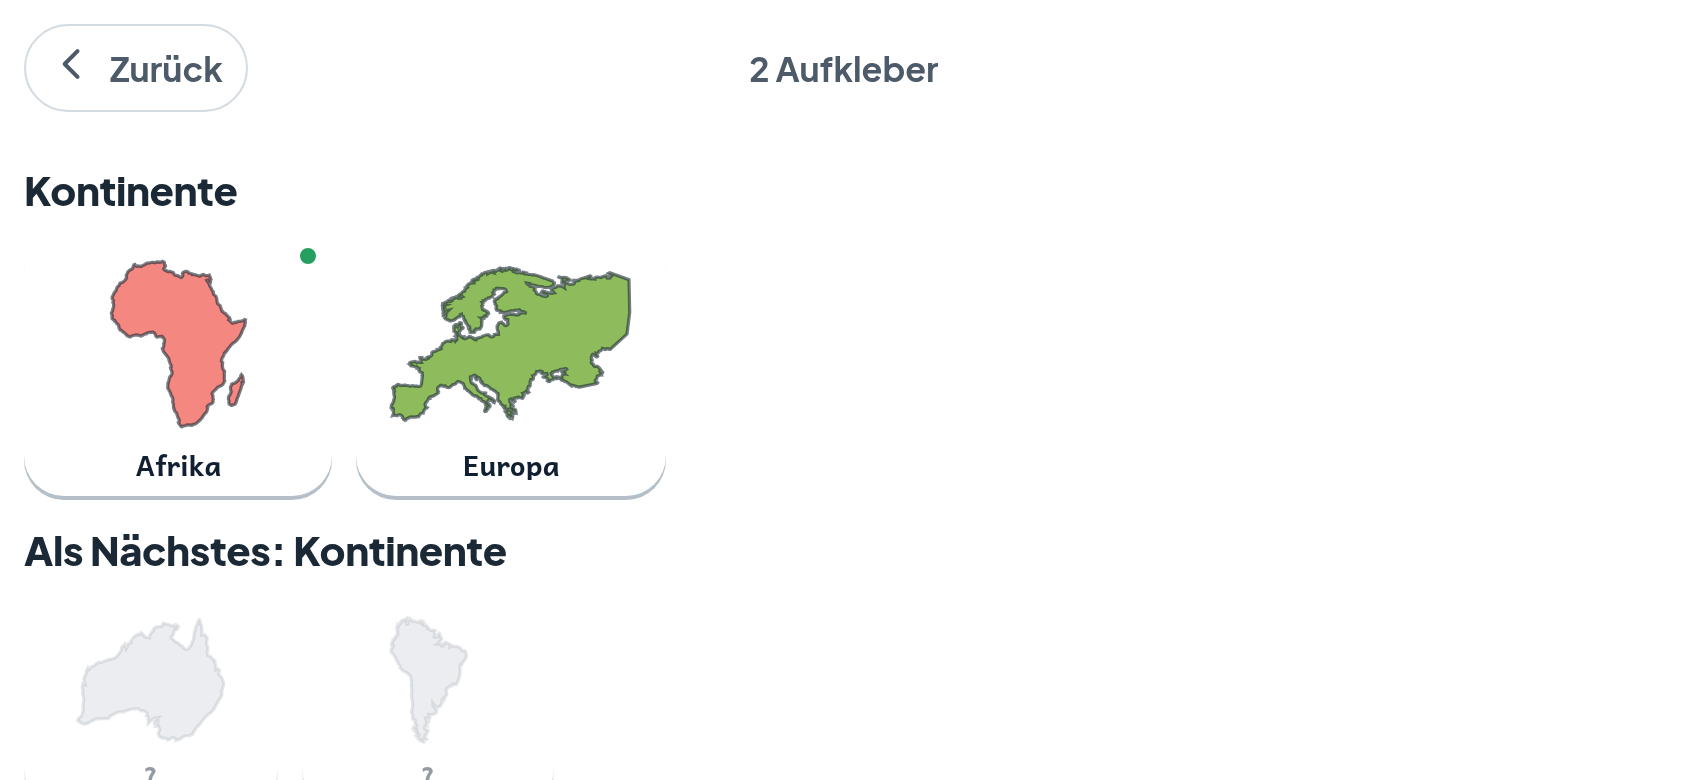
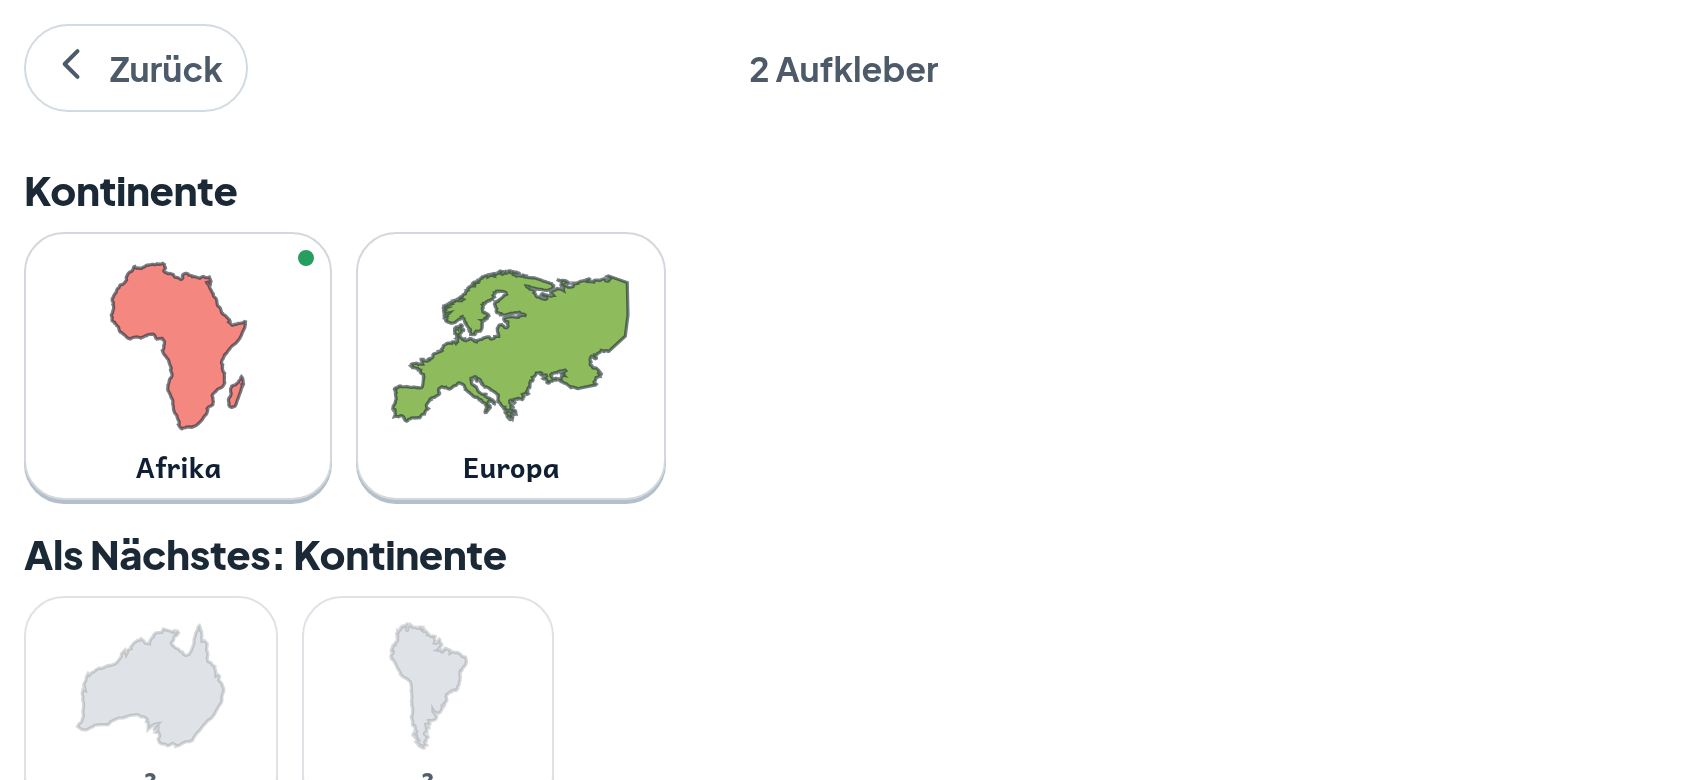
Forscherbuch in der Kachelsprache; lesbarkeit sieht neun Bildschirme statt vier

diff --git a/prototyp/vorlage.html b/prototyp/vorlage.html
@@ -625,9 +625,18 @@ body{background:linear-gradient(168deg,var(--grund) 0%,var(--grund-2) 100%);
    zurueckgenommen. */
 .kleber.vorschau{grid-template-columns:repeat(auto-fill,minmax(120px,1fr))}
 .kleber.vorschau .aufkleber svg{height:72px}
-.aufkleber{background:var(--papier);border:none;border-radius:var(--rund-karte);padding:var(--r2);
+/* Auf Weiss traegt der Rand, auch hier (R2).
+   Die Karte hatte `background:var(--papier)` und `border:none` - auf dem
+   alten hellblauen Grund war sie damit eine Karte, auf Weiss ist sie
+   nichts. Zu sehen war nur noch der Schatten an ihrer Unterkante, und die
+   Umrisse schwebten frei im Raum. */
+.aufkleber{background:var(--papier);border:var(--strich) solid var(--linie);
+  border-radius:var(--rund-karte);padding:var(--r2);
   box-shadow:0 var(--kante-flach) 0 var(--tiefe-farbe);display:flex;flex-direction:column;align-items:center;
-  gap:var(--r1);cursor:pointer;opacity:.45}
+  gap:var(--r1);cursor:pointer;opacity:.72}
+/* 0,45 war auf Weiss zu wenig - und schlimmer: unter 0,5 sieht
+   `lesbarkeit` einen Text gar nicht erst an. Die Vorschau war damit die
+   einzige Schrift der App, die NIE gemessen wurde (Regel 13). */
 .aufkleber.da{opacity:1}
 .aufkleber{position:relative}
 .aufkleber .siegel{position:absolute;top:6px;right:6px;width:12px;height:12px;border-radius:50%;
